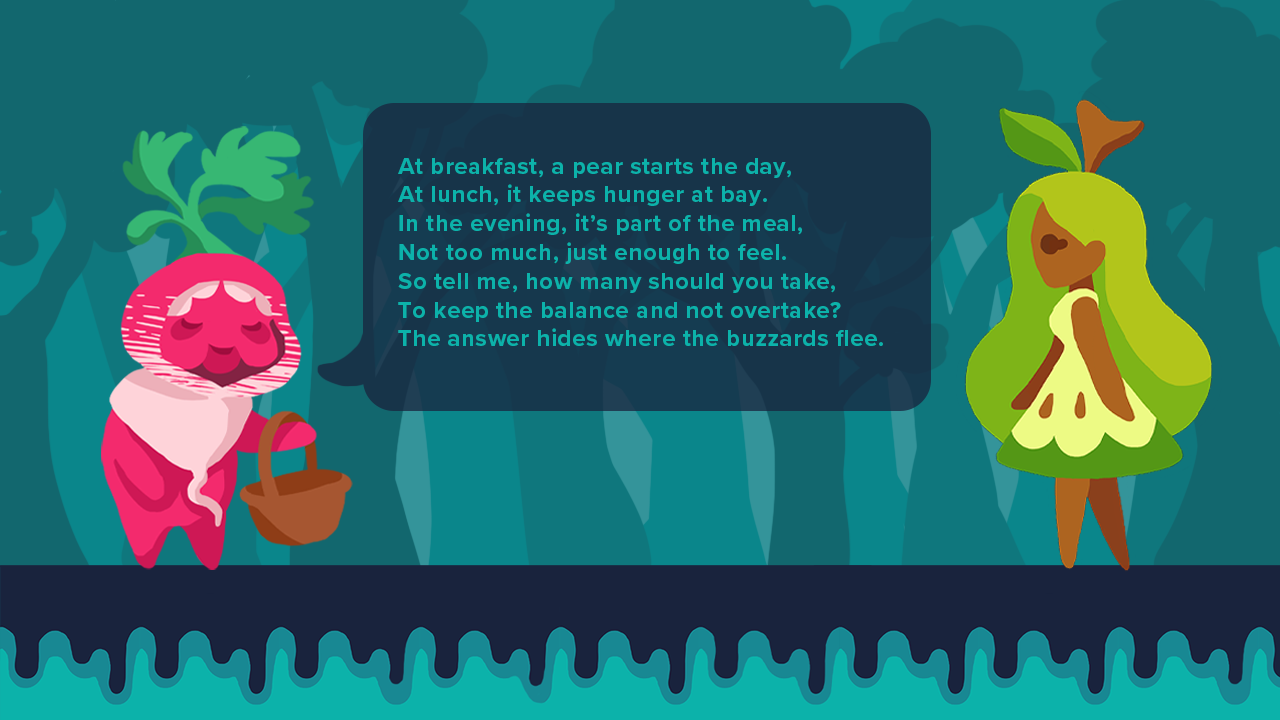
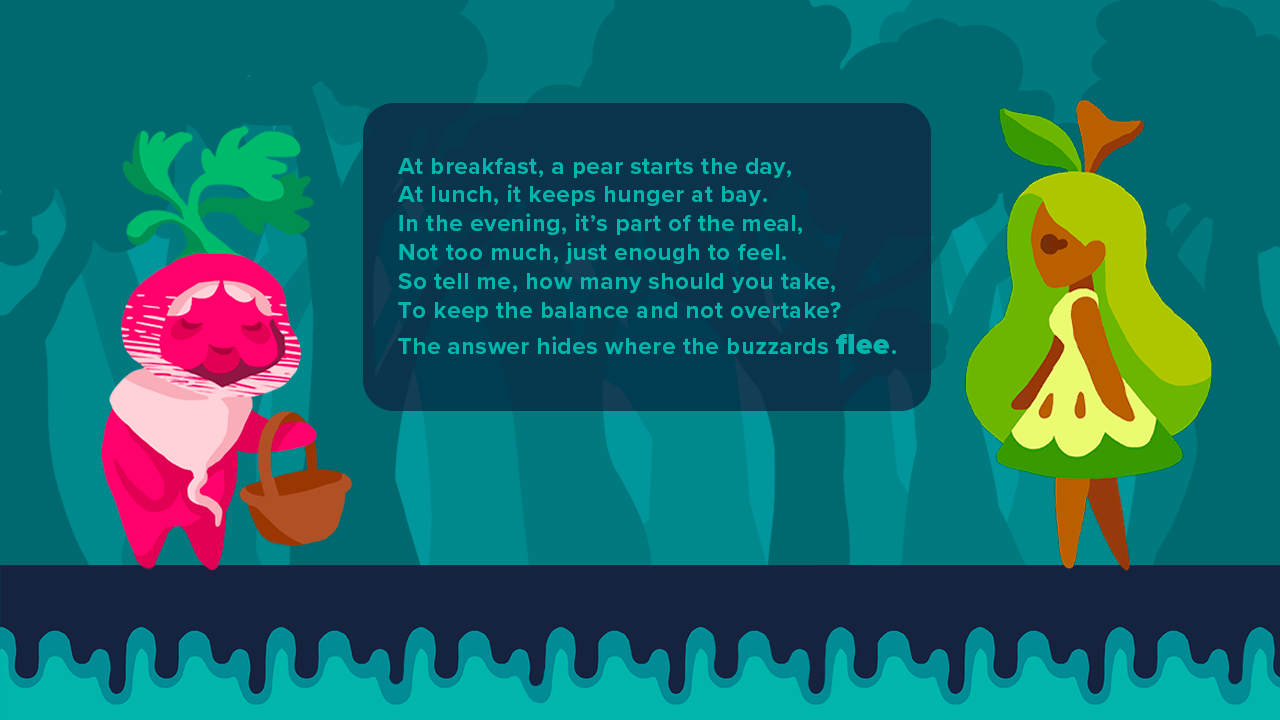
inserita animazione collision, ora la devo metere quando collide con nemico

diff --git a/SRC/player2.js b/SRC/player2.js
@@ -29,6 +29,8 @@ function configure_player_animations2(s) {
     PP.assets.sprite.animation_add_list(player1, "throw", [0, 1, 2, 3, 4, 5, 6, 21, 22, 23, 24], 11, 0);
     PP.assets.sprite.animation_add_list(player1, "climb", [54, 55, 56, 57, 58, 59, 60, 61, 62], 9, 0);
     PP.assets.sprite.animation_add_list(player1, "stop_climb", [54, 54], 9, 0);
+    PP.assets.sprite.animation_add_list(player1, "collision", [63, 50, 63, 50], 4, -1);
+
 
     PP.assets.sprite.animation_play(player1, "idle");
 }
@@ -41,7 +43,7 @@ function preload_player2(s) {
 function create_player2(s) {
     player1 = PP.assets.sprite.add(s, ss_player1, 130, starting_point, 0.5, 1);
     PP.physics.add(s, player1, PP.physics.type.DYNAMIC);
-    PP.physics.set_collision_rectangle (player1, 30, 140, 50, 28);
+    PP.physics.set_collision_rectangle(player1, 30, 140, 50, 28);
     configure_player_animations2(s);
 }
 
@@ -93,14 +95,14 @@ function update_player2(s) {
             }
         }
 
-    // Logica per specchiare il giocatore
-    if (PP.physics.get_velocity_x(player1) < 0) {
-        player1.geometry.flip_x = true;
-        PP.physics.set_collision_rectangle (player1, 30, 140, 70, 28)
-    } else if (PP.physics.get_velocity_x(player1) > 0) {
-        player1.geometry.flip_x = false;
-        PP.physics.set_collision_rectangle (player1, 30, 140, 50, 28)
-    }
+        // Logica per specchiare il giocatore
+        if (PP.physics.get_velocity_x(player1) < 0) {
+            player1.geometry.flip_x = true;
+            PP.physics.set_collision_rectangle(player1, 30, 140, 70, 28)
+        } else if (PP.physics.get_velocity_x(player1) > 0) {
+            player1.geometry.flip_x = false;
+            PP.physics.set_collision_rectangle(player1, 30, 140, 50, 28)
+        }
 
         if (PP.physics.get_velocity_y(player1) < 0) {
             next_anim1 = "jump_up";

diff --git a/index.html b/index.html
@@ -9,22 +9,22 @@
     <script src="LIB/poliphaser.js"></script>
 
 
-    <!-- Script per il gioco e le scene 
-    <script src="SRC/SCENES/vecchina0.js" type="module"></script>-->
+    
+    <script src="SRC/SCENES/vecchina0.js" type="module"></script>
     <script src="SRC/SCENES/vecchina1.js" type="module"></script>
     <script src="SRC/SCENES/tutorial.js" type="module"></script> 
     <script src="SRC/SCENES/parallax.js" type="module"></script>
     <script src="SRC/SCENES/gameover.js" type="module"></script> 
     <script src="SRC/SCENES/strega1morte.js" type="module"></script> 
-    <script src="SRC/SCENES/win.js" type="module"></script>
+    <script src="SRC/SCENES/win.js" type="module"></script> 
         
         
  
-    <script src="SRC/SCENES/vecchina2.js" type="module"></script> 
+     <script src="SRC/SCENES/vecchina2.js" type="module"></script> 
     <script src="SRC/SCENES/level2.js" type="module"></script>
     <script src="SRC/SCENES/gameover2.js" type="module"></script>   
     <script src="SRC/SCENES/strega2morte.js" type="module"></script> 
-    <script src="SRC/SCENES/win2.js" type="module"></script>
+    <script src="SRC/SCENES/win2.js" type="module"></script> 
 
 
     <script src="SRC/SCENES/vecchina3.js" type="module"></script>  

diff --git a/SRC/player.js b/SRC/player.js
@@ -24,6 +24,7 @@ function configure_player_animations(s) {
     PP.assets.sprite.animation_add_list(player, "jump_up", [33, 34, 35, 36, 37, 38, 39, 40], 8, 0);
     PP.assets.sprite.animation_add_list(player, "jump_down", [41, 42, 43, 44, 45, 46, 47, 48, 49], 9, 0);
     PP.assets.sprite.animation_add_list(player, "throw", [7, 8, 9, 10, 11, 12, 13, 21, 22, 23, 24, 53], 12, 0);
+    PP.assets.sprite.animation_add_list(player, "collision", [63, 50, 63, 50], 4, -1);
 
     PP.assets.sprite.animation_play(player, "idle");
 }
@@ -31,7 +32,7 @@ function configure_player_animations(s) {
 function preload_player(s) {
     //ss_player = PP.assets.sprite.load_spritesheet(s, "ASSETS/IMAGES/PERINASPRITETOTALE2.png", 103, 162);
     //ss_player = PP.assets.sprite.load_spritesheet(s, "ASSETS/IMAGES/perinaforsedef.png", 150, 168);
-    ss_player = PP.assets.sprite.load_spritesheet(s, "ASSETS/IMAGES/sprite_colori_def.png", 150, 168);
+    ss_player = PP.assets.sprite.load_spritesheet(s, "ASSETS/IMAGES/sprite_colori_def_completo.png", 150, 168);
     img_shuriken = PP.assets.image.load(s, "ASSETS/IMAGES/pera40.png");
 }
 
@@ -42,7 +43,7 @@ function create_player(s) {
     PP.physics.add(s, player, PP.physics.type.DYNAMIC);
 
     //Gestisco hitbox personaggio
-    PP.physics.set_collision_rectangle (player, 30, 140, 50, 28)
+    PP.physics.set_collision_rectangle(player, 30, 140, 50, 28)
 
     // Configuro le animazioni del playerf
     configure_player_animations(s);
@@ -87,10 +88,10 @@ function update_player(s) {
     // Logica per specchiare il giocatore
     if (PP.physics.get_velocity_x(player) < 0) {
         player.geometry.flip_x = true;
-        PP.physics.set_collision_rectangle (player, 30, 140, 70, 28)
+        PP.physics.set_collision_rectangle(player, 30, 140, 70, 28)
     } else if (PP.physics.get_velocity_x(player) > 0) {
         player.geometry.flip_x = false;
-        PP.physics.set_collision_rectangle (player, 30, 140, 50, 28)
+        PP.physics.set_collision_rectangle(player, 30, 140, 50, 28)
     }
 
     // Le animazioni del salto vengono gestite in base alla velocità verticale

diff --git a/SRC/strega1.js b/SRC/strega1.js
@@ -5,7 +5,7 @@ let floor_height_v_strega = 575; // Altezza del terreno
 
 
 function configure_strega1_animations_v(s) {
-    PP.assets.sprite.animation_add_list(strega1_v, "death1", [0, 1, 2, 3, 4, 5, 6, 7, 8, 9, 10, 11, 12, 13, 14, 14, 14], 15, 0);
+    PP.assets.sprite.animation_add_list(strega1_v, "death1", [0, 1, 2, 3, 4, 5, 6, 7, 8, 9, 10, 11, 12, 13, 14, 14, 14], 8, 0);
     PP.assets.sprite.animation_add_list(strega1_v, "stop", [0, 0], 2, 1);
     PP.assets.sprite.animation_add_list(strega1_v, "idle", [0, 1, 2, 3, 4, 5], 4, -1);
 

diff --git a/SRC/player3.js b/SRC/player3.js
@@ -28,6 +28,7 @@ function configure_player_animations3(s) {
     PP.assets.sprite.animation_add_list(player2, "throw", [14, 15, 16, 17, 18, 19, 20, 21, 22, 23, 24], 11, 0);
     PP.assets.sprite.animation_add_list(player2, "climb", [54, 55, 56, 57, 58, 59, 60, 61, 62], 9, 0);
     PP.assets.sprite.animation_add_list(player2, "stop_climb", [54, 54], 9, 0);
+    PP.assets.sprite.animation_add_list(player2, "collision", [63, 50, 63, 50], 4, -1);
 
 
     PP.assets.sprite.animation_play(player2, "idle");